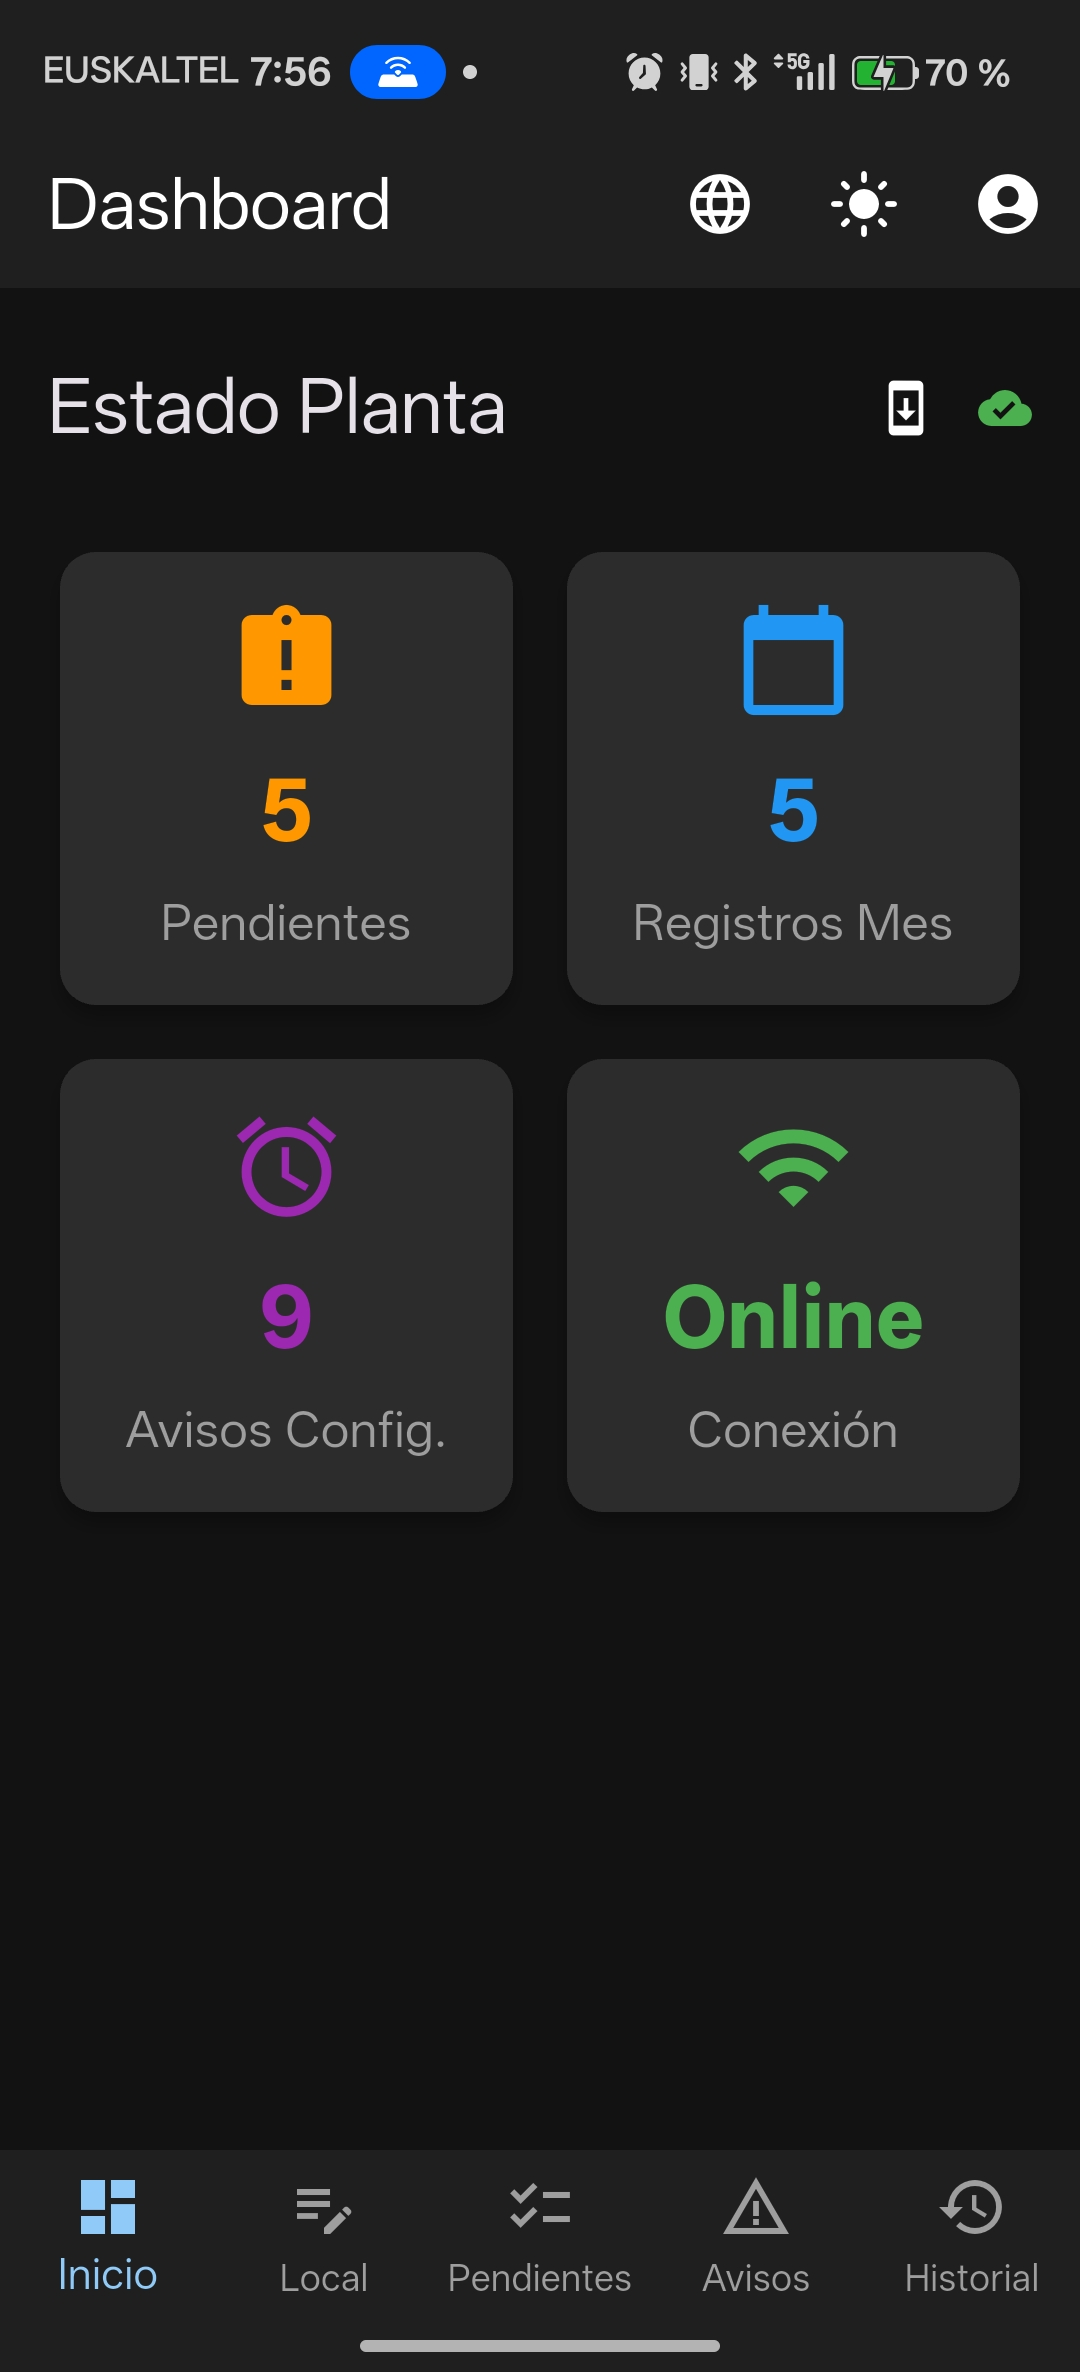
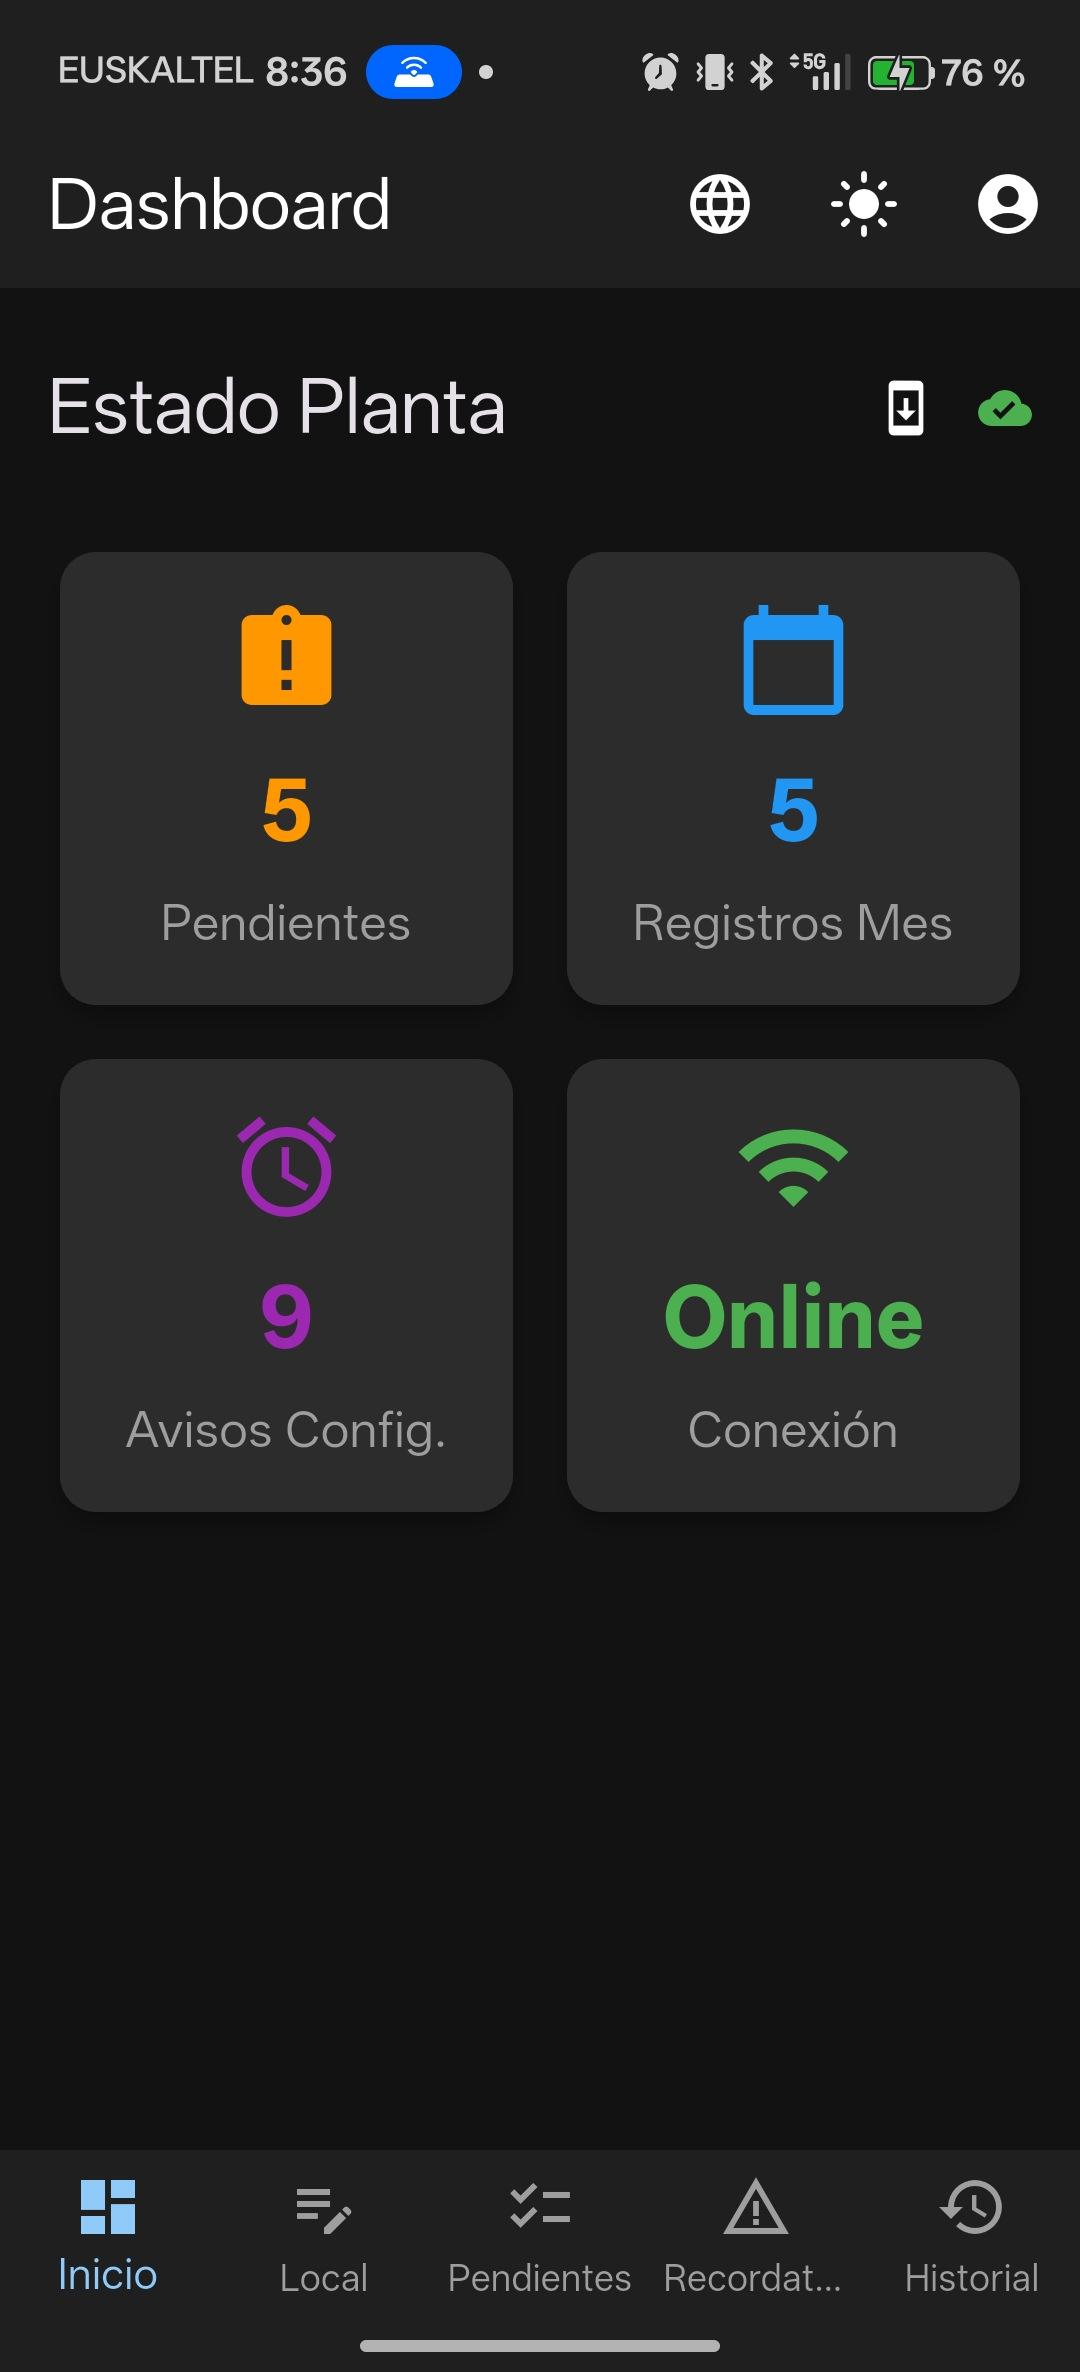
fix base de datos

diff --git a/mantpro_stock_app/lib/main.dart b/mantpro_stock_app/lib/main.dart
@@ -37,7 +37,7 @@ final ValueNotifier<ThemeMode> themeNotifier = ValueNotifier(ThemeMode.dark);
 // --- COMPROBADOR DE ACTUALIZACIONES (GitHub Releases) ---
 // IMPORTANTE: sube este número cada vez que publiques un nuevo release en GitHub (tag vX.Y.Z),
 // así la app sabrá que la instalada se ha quedado atrás. Comparte repositorio con MantPro.
-const String kAppVersion = '3.7.1';
+const String kAppVersion = '3.7.2';
 const String kRepoOwner = 'AnabasaSoft';
 const String kRepoName = 'MantPro';
 

diff --git a/mantenimiento_app/lib/main.dart b/mantenimiento_app/lib/main.dart
@@ -421,7 +421,7 @@ Future<void> evaluarNotificacionesAvisos() async {
 // --- COMPROBADOR DE ACTUALIZACIONES (GitHub Releases) ---
 // IMPORTANTE: sube este número cada vez que publiques un nuevo release en GitHub (tag vX.Y.Z),
 // así la app sabrá que la instalada se ha quedado atrás.
-const String kAppVersion = '3.7.1';
+const String kAppVersion = '3.7.2';
 const String kRepoOwner = 'AnabasaSoft';
 const String kRepoName = 'MantPro';
 

diff --git a/main.py b/main.py
@@ -167,7 +167,7 @@ def obtener_ruta_datos():
 
 # Variable global que decide dónde se guarda TODO
 DATA_DIR = obtener_ruta_datos()
-APP_VERSION = "3.7.1"
+APP_VERSION = "3.7.2"
 REPO_OWNER = "AnabasaSoft"
 REPO_NAME = "MantPro"
 
